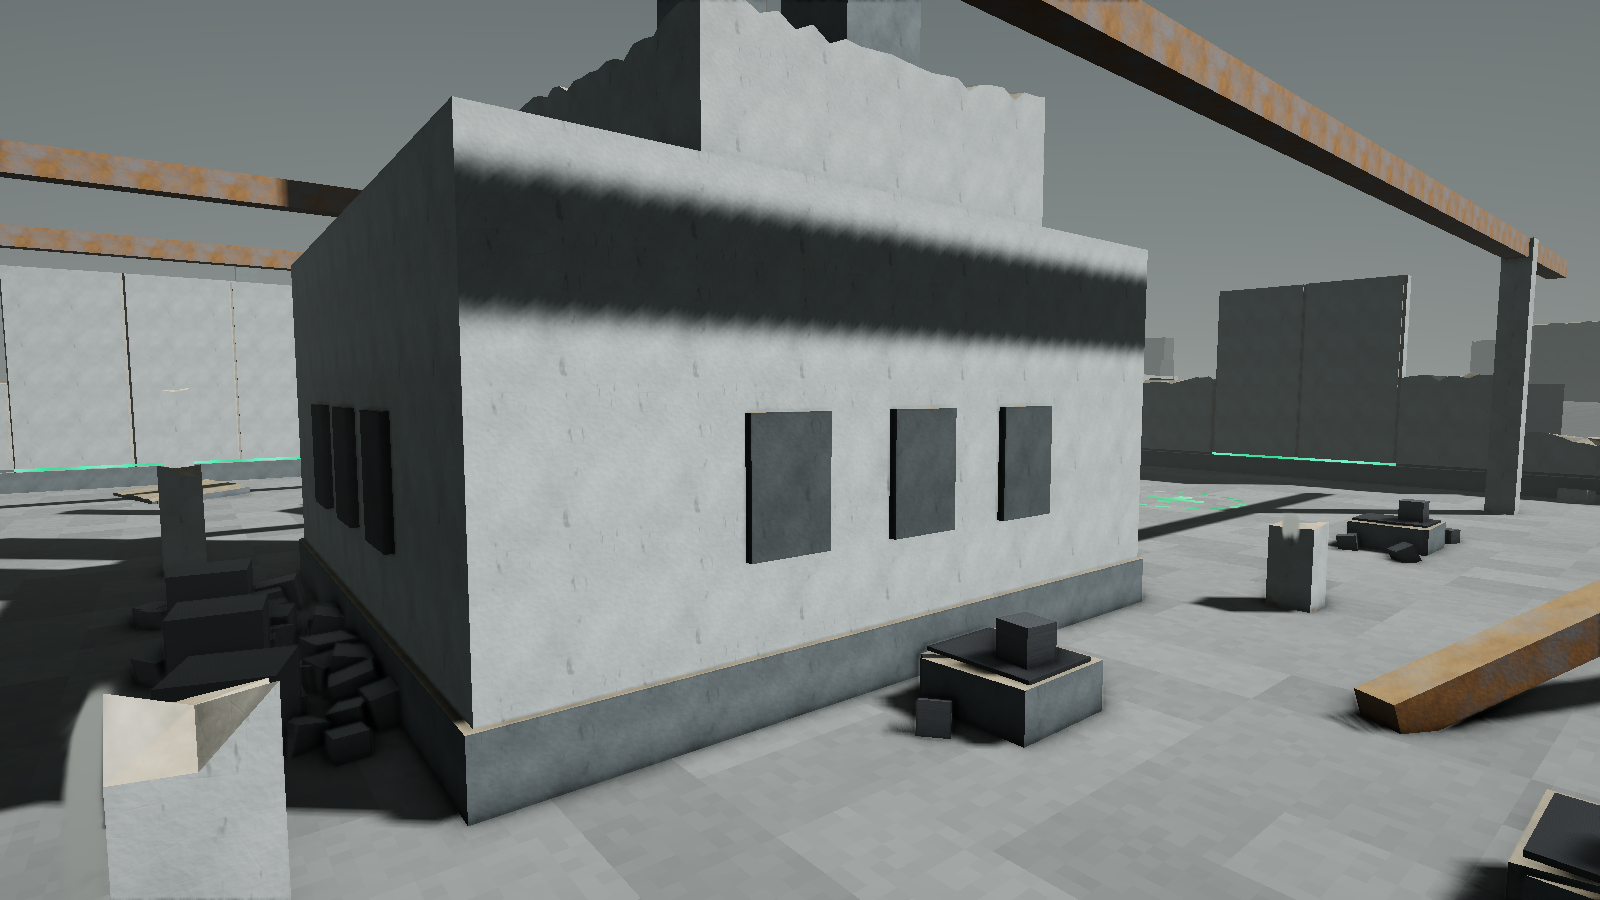
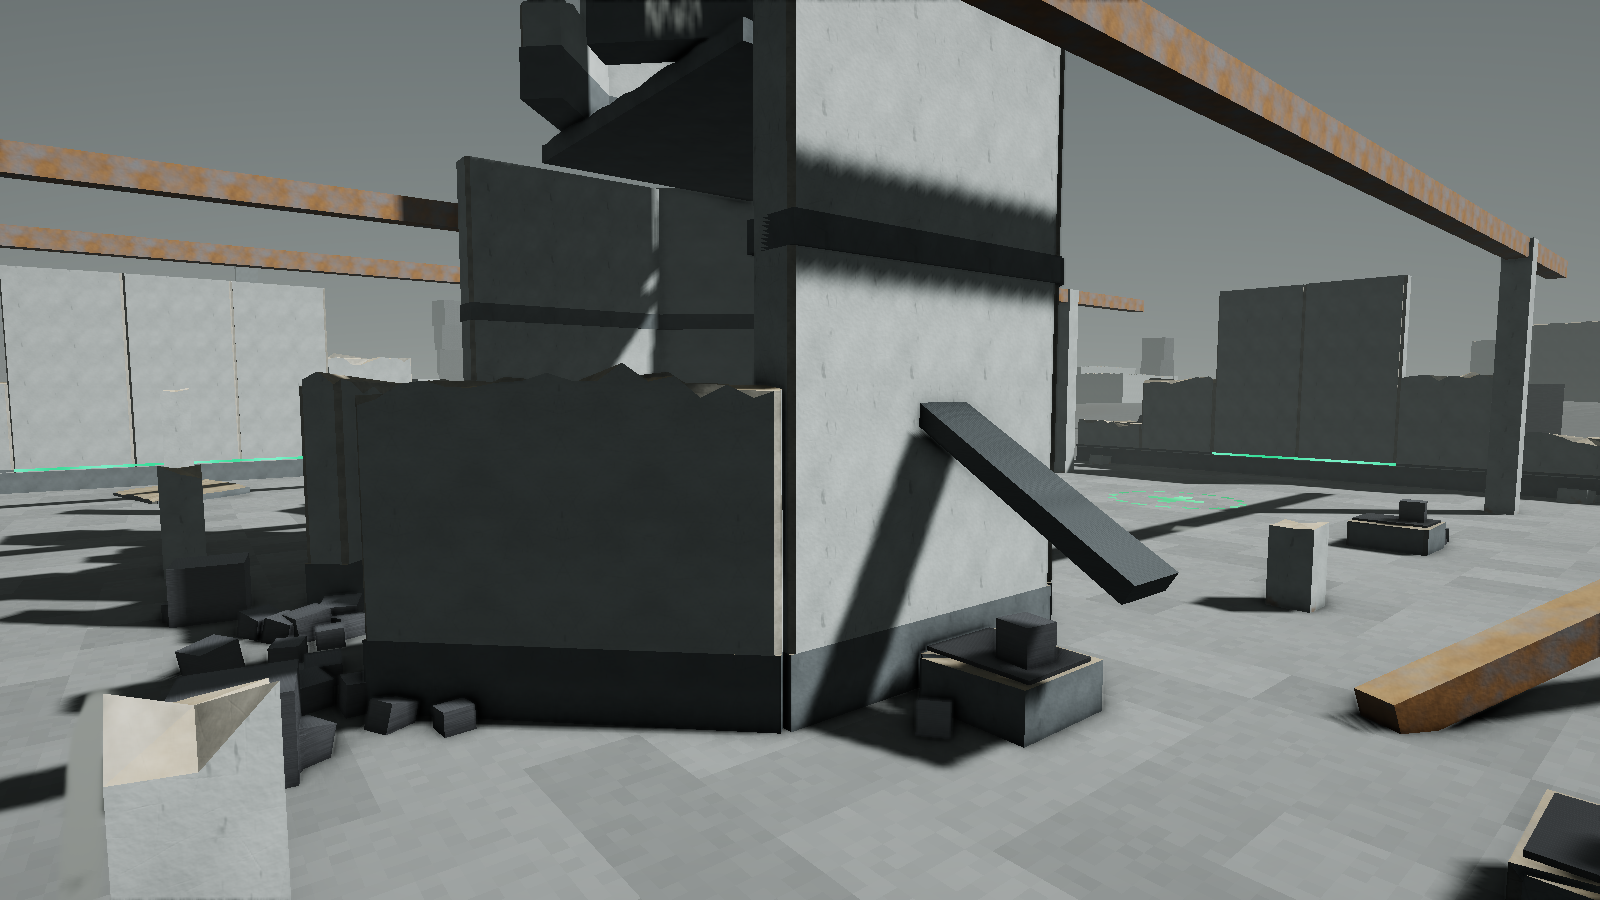
Foundry smelter: an eight-sided furnace, blown open, still glowing
It was a plain white block with dark windows. Now it's a furnace tower:
eight faces of pale shell on a dark plinth, banded, a hopper ring on top
and two stacks, one snapped (the other with a green light near its top).
The north face is blown out and the faces either side broken low; inside,
the crucible still glows green under its lid, and cubes have spilled out
through the breach. Chutes run down from its flanks to the middle lines.

Claude-Session: https://claude.ai/code/session_01MEmTqFVWWcjbd5bh79dW6c

diff --git a/src/map/foundry.rs b/src/map/foundry.rs
@@ -474,38 +474,46 @@ impl Map {
         }
     }
 
-    /// The smelter: a dead block of shell at the hall's heart, its vents
-    /// dark but one still glowing, split open on its north face with cubes
-    /// spilled out of it.
+    /// The smelter: an eight-sided furnace tower at the hall's heart, pale
+    /// shell on a dark plinth, banded, with a hopper on top and two stacks,
+    /// one snapped. Its north face is blown out and the crucible inside
+    /// still glows green; cubes have spilled out through the breach. Chutes
+    /// run down from its flanks to the middle production lines.
     fn smelter(&mut self, rng: &mut Rng) {
-        let h = SMELTER_HALF;
-        // Body, in two tiers.
-        self.twin(
-            CENTER,
-            Vec2::splat(h),
-            0.0,
-            SMELTER_H * 0.7,
-            SHELL,
-            Material::Painted,
-            true,
-        );
-        self.twin(
-            CENTER + Vec2::new(0.0, -1.5),
-            Vec2::new(h - 2.0, h - 3.5),
-            SMELTER_H * 0.7,
+        // Wall heights by face, from east (0) round through north (2):
+        // the north face is gone, the faces either side broken low. Faces
+        // mirror (0 and 4, 1 and 3, 5 and 7), so the halves match.
+        let heights = [
+            SMELTER_H, 6.5, 0.0, 6.5, SMELTER_H, SMELTER_H, SMELTER_H, SMELTER_H,
+        ];
+        self.octagon(CENTER, SMELTER_HALF, 0.0, &heights, true);
+        // The hopper: a narrower ring on top, its north side broken away.
+        let hopper = [5.0, 3.0, 0.0, 3.0, 5.0, 5.0, 5.0, 5.0];
+        self.octagon(
+            CENTER + Vec2::new(0.0, -1.0),
+            4.6,
             SMELTER_H,
-            SHELL,
-            Material::Painted,
-            true,
+            &hopper,
+            false,
         );
-        // The top tier is broken off on its north side.
-        let i = self.oboxes.len() - 1;
-        self.oboxes[i].broken = true;
-        // Two stacks on top, one snapped off.
-        for (x, h, broken) in [(-3.5f32, 16.0, false), (3.5, 6.5, true)] {
+        // The roof between them, broken open to the north.
+        self.oboxes.push(OBox {
+            center: CENTER + Vec2::new(0.0, -2.0),
+            half: Vec2::new(5.8, 4.2),
+            y0: SMELTER_H - 0.6,
+            y1: SMELTER_H,
+            color: SHELL_DARK,
+            side_mat: Material::Concrete,
+            top_mat: Material::Concrete,
+            solid: false,
+            broken: true,
+            ..OBox::default()
+        });
+        // Two stacks on the roof, one snapped off.
+        for (x, h, broken) in [(-5.0f32, 15.0, false), (5.0, 5.5, true)] {
             let i = self.twin(
-                CENTER + Vec2::new(x, -3.0),
-                Vec2::splat(1.4),
+                CENTER + Vec2::new(x, -4.5),
+                Vec2::splat(1.2),
                 SMELTER_H,
                 SMELTER_H + h,
                 SHELL_DARK * 1.3,
@@ -513,53 +521,66 @@ impl Map {
                 false,
             );
             self.edit_twin(i, |o| o.broken = broken);
-        }
-        // Dark plinth band and vents round it.
-        self.twin(
-            CENTER,
-            Vec2::splat(h + 0.15),
-            0.0,
-            1.3,
-            SHELL_DARK,
-            Material::Concrete,
-            false,
-        );
-        for k in 0..4 {
-            let a = k as f32 * FRAC_PI_2;
-            let out = Vec2::new(a.cos(), a.sin());
-            let side = Vec2::new(-out.y, out.x);
-            for v in [-1.0f32, 0.0, 1.0] {
-                let lit = k == 2 && v == 0.0;
-                let at = CENTER + out * (h + 0.08) + side * v * 3.5;
-                let half = if out.x.abs() > 0.5 {
-                    Vec2::new(0.1, 0.9)
-                } else {
-                    Vec2::new(0.9, 0.1)
-                };
-                self.oboxes.push(OBox {
-                    center: at,
-                    half,
-                    y0: 3.0,
-                    y1: 5.6,
-                    color: if lit { GREEN } else { SHELL_DARK * 0.6 },
-                    side_mat: if lit {
-                        Material::Glow
-                    } else {
-                        Material::Concrete
-                    },
-                    top_mat: if lit {
-                        Material::Glow
-                    } else {
-                        Material::Concrete
-                    },
-                    solid: false,
-                    ..OBox::default()
-                });
+            if !broken {
+                self.twin(
+                    CENTER + Vec2::new(x, -4.5),
+                    Vec2::splat(1.3),
+                    SMELTER_H + h - 2.0,
+                    SMELTER_H + h - 1.6,
+                    GREEN,
+                    Material::Glow,
+                    false,
+                );
             }
         }
-        // Spilled out of its broken north face: a heap of cubes.
+        // The crucible inside, still hot: a green glow you see through the
+        // breach, under a dark lid.
+        self.oboxes.push(OBox {
+            center: CENTER,
+            half: Vec2::splat(4.2),
+            yaw: std::f32::consts::FRAC_PI_4,
+            y0: 0.0,
+            y1: 3.2,
+            color: GREEN,
+            side_mat: Material::Glow,
+            top_mat: Material::Glow,
+            solid: false,
+            ..OBox::default()
+        });
+        self.oboxes.push(OBox {
+            center: CENTER,
+            half: Vec2::splat(5.0),
+            yaw: std::f32::consts::FRAC_PI_4,
+            y0: 3.2,
+            y1: 4.0,
+            color: SHELL_DARK * 0.7,
+            side_mat: Material::Concrete,
+            top_mat: Material::Concrete,
+            solid: false,
+            ..OBox::default()
+        });
+        // Chutes from its flanks down to the middle lines (west, mirrored east).
+        let chute = self.twin(
+            Vec2::new(MID - SMELTER_HALF - 2.4, MID),
+            Vec2::new(0.7, 3.0),
+            4.2,
+            4.6,
+            SHELL_DARK,
+            Material::Metal,
+            false,
+        );
+        self.edit_twin(chute, |o| {
+            o.yaw = -FRAC_PI_2;
+            o.tilt = 0.55;
+        });
+        // Spilled out through the breach: a heap of cubes.
+        let h = SMELTER_HALF;
         for _ in 0..40 {
-            let at = CENTER + Vec2::new(rng.range(-6.0, 6.0), h + rng.range(0.5, 5.0) * rng.f32());
+            let at = CENTER
+                + Vec2::new(
+                    rng.range(-6.0, 6.0),
+                    h - 2.0 + rng.range(0.5, 7.0) * rng.f32(),
+                );
             let s = rng.range(0.5, 0.9);
             self.cube(
                 at,
@@ -571,8 +592,8 @@ impl Map {
                 false,
             );
         }
-        // Three bigger ones, cover beside the heap.
-        for x in [-4.5f32, 0.0, 4.5] {
+        // Two bigger ones either side of the breach, cover beside the heap.
+        for x in [-5.5f32, 5.5] {
             self.cube(
                 CENTER + Vec2::new(x, h + 2.5),
                 -0.1,
@@ -582,6 +603,50 @@ impl Map {
                 true,
                 false,
             );
+        }
+    }
+
+    /// An eight-sided wall ring round `c`, `r` from center to face: each
+    /// face a panel of pale shell on a dark plinth from `y0`, `heights[i]`
+    /// tall (0: no panel), face 0 facing east and counting round through
+    /// north. A panel shorter than the tallest is broken off; `bands` adds
+    /// a dark band round each full panel.
+    fn octagon(&mut self, c: Vec2, r: f32, y0: f32, heights: &[f32; 8], bands: bool) {
+        let side = 2.0 * r * (std::f32::consts::PI / 8.0).tan() + 0.3;
+        let full = heights.iter().copied().fold(0.0, f32::max);
+        for (i, &h) in heights.iter().enumerate() {
+            if h <= 0.0 {
+                continue;
+            }
+            let a = i as f32 * std::f32::consts::FRAC_PI_4;
+            let out = Vec2::new(a.cos(), a.sin());
+            // Local +z faces out.
+            let yaw = out.x.atan2(out.y);
+            let at = c + out * r;
+            let panel = |y0: f32, y1: f32, color: Vec3, mat: Material, solid: bool| OBox {
+                center: at,
+                yaw,
+                half: Vec2::new(side * 0.5, 0.6),
+                y0,
+                y1,
+                color,
+                side_mat: mat,
+                top_mat: mat,
+                solid,
+                ..OBox::default()
+            };
+            let plinth = (y0 + 1.4).min(y0 + h);
+            self.oboxes
+                .push(panel(y0, plinth, SHELL_DARK, Material::Concrete, true));
+            let mut wall = panel(plinth, y0 + h, SHELL, Material::Painted, true);
+            wall.broken = h < full;
+            wall.chip = 0.15;
+            self.oboxes.push(wall);
+            if bands && h >= full {
+                let mut band = panel(y0 + 8.4, y0 + 9.0, SHELL_DARK, Material::Concrete, false);
+                band.half += Vec2::new(0.0, 0.08);
+                self.oboxes.push(band);
+            }
         }
     }
 
